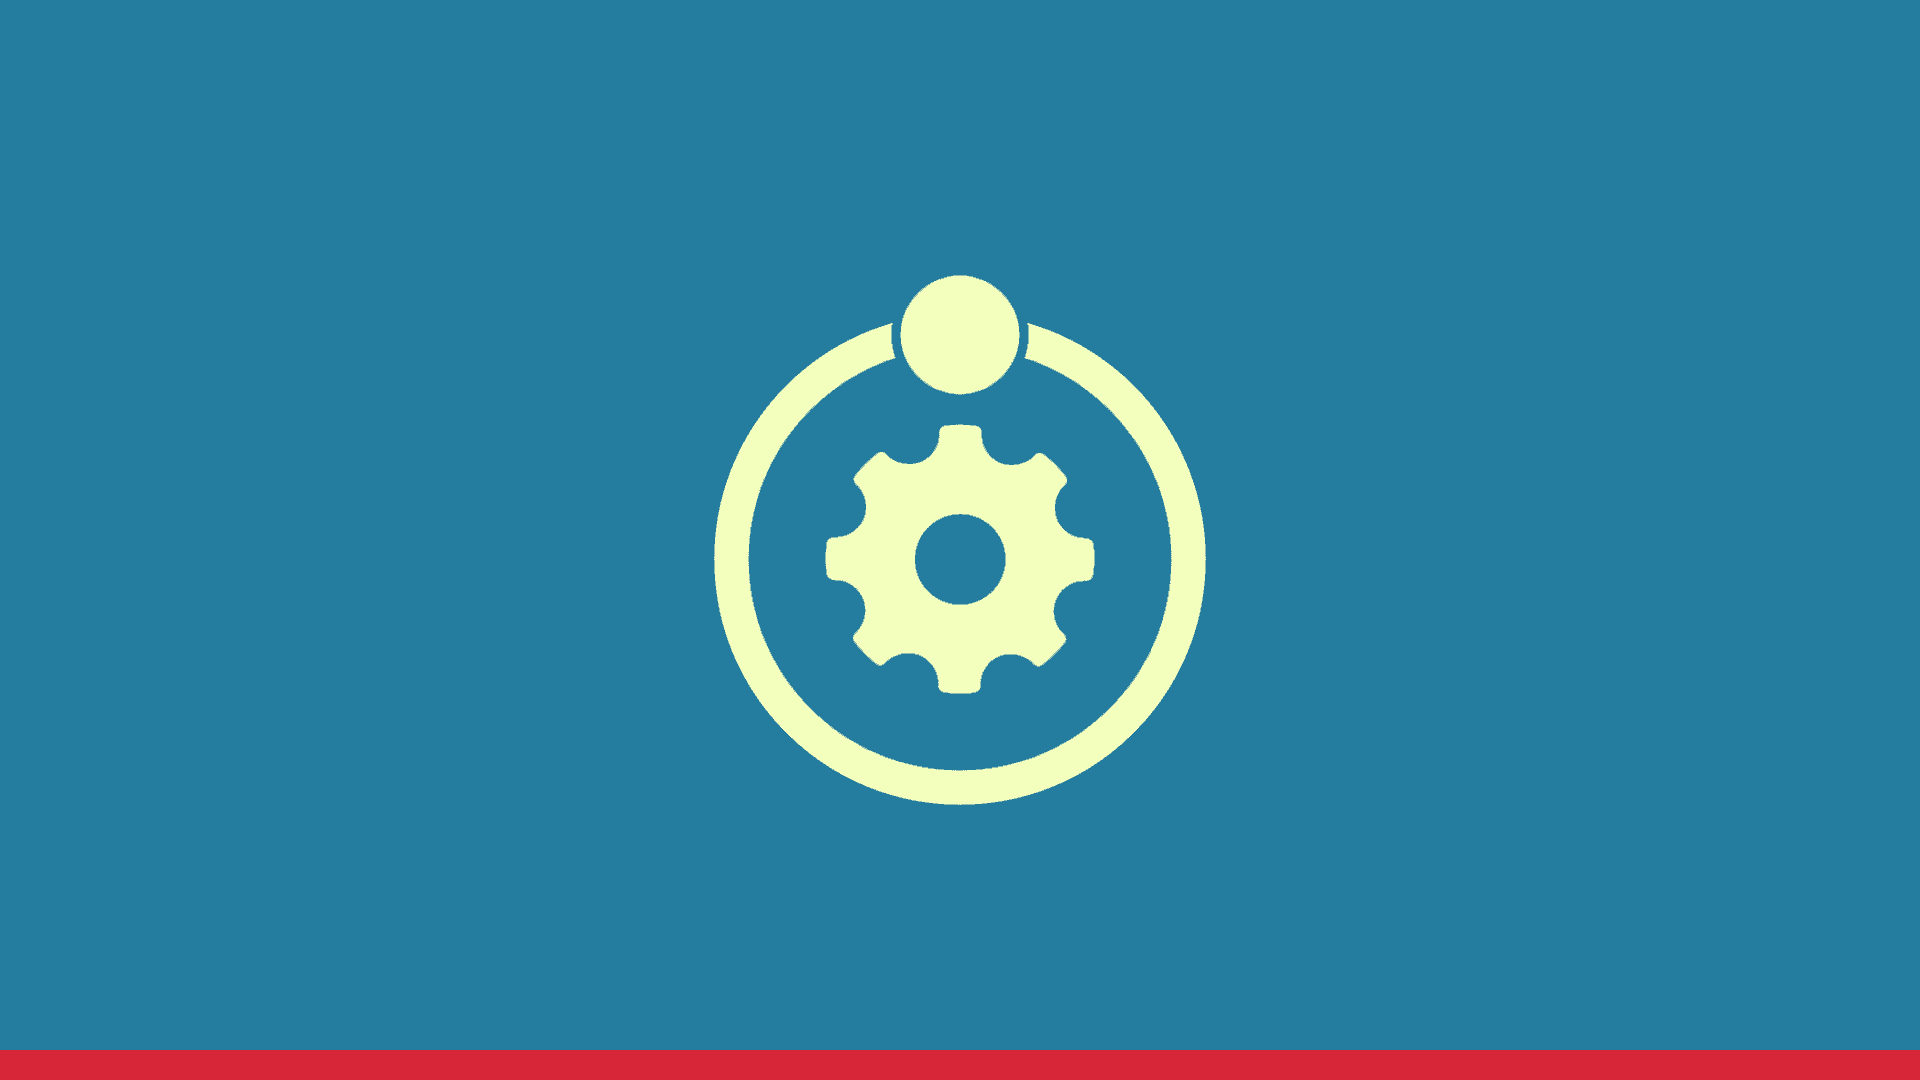
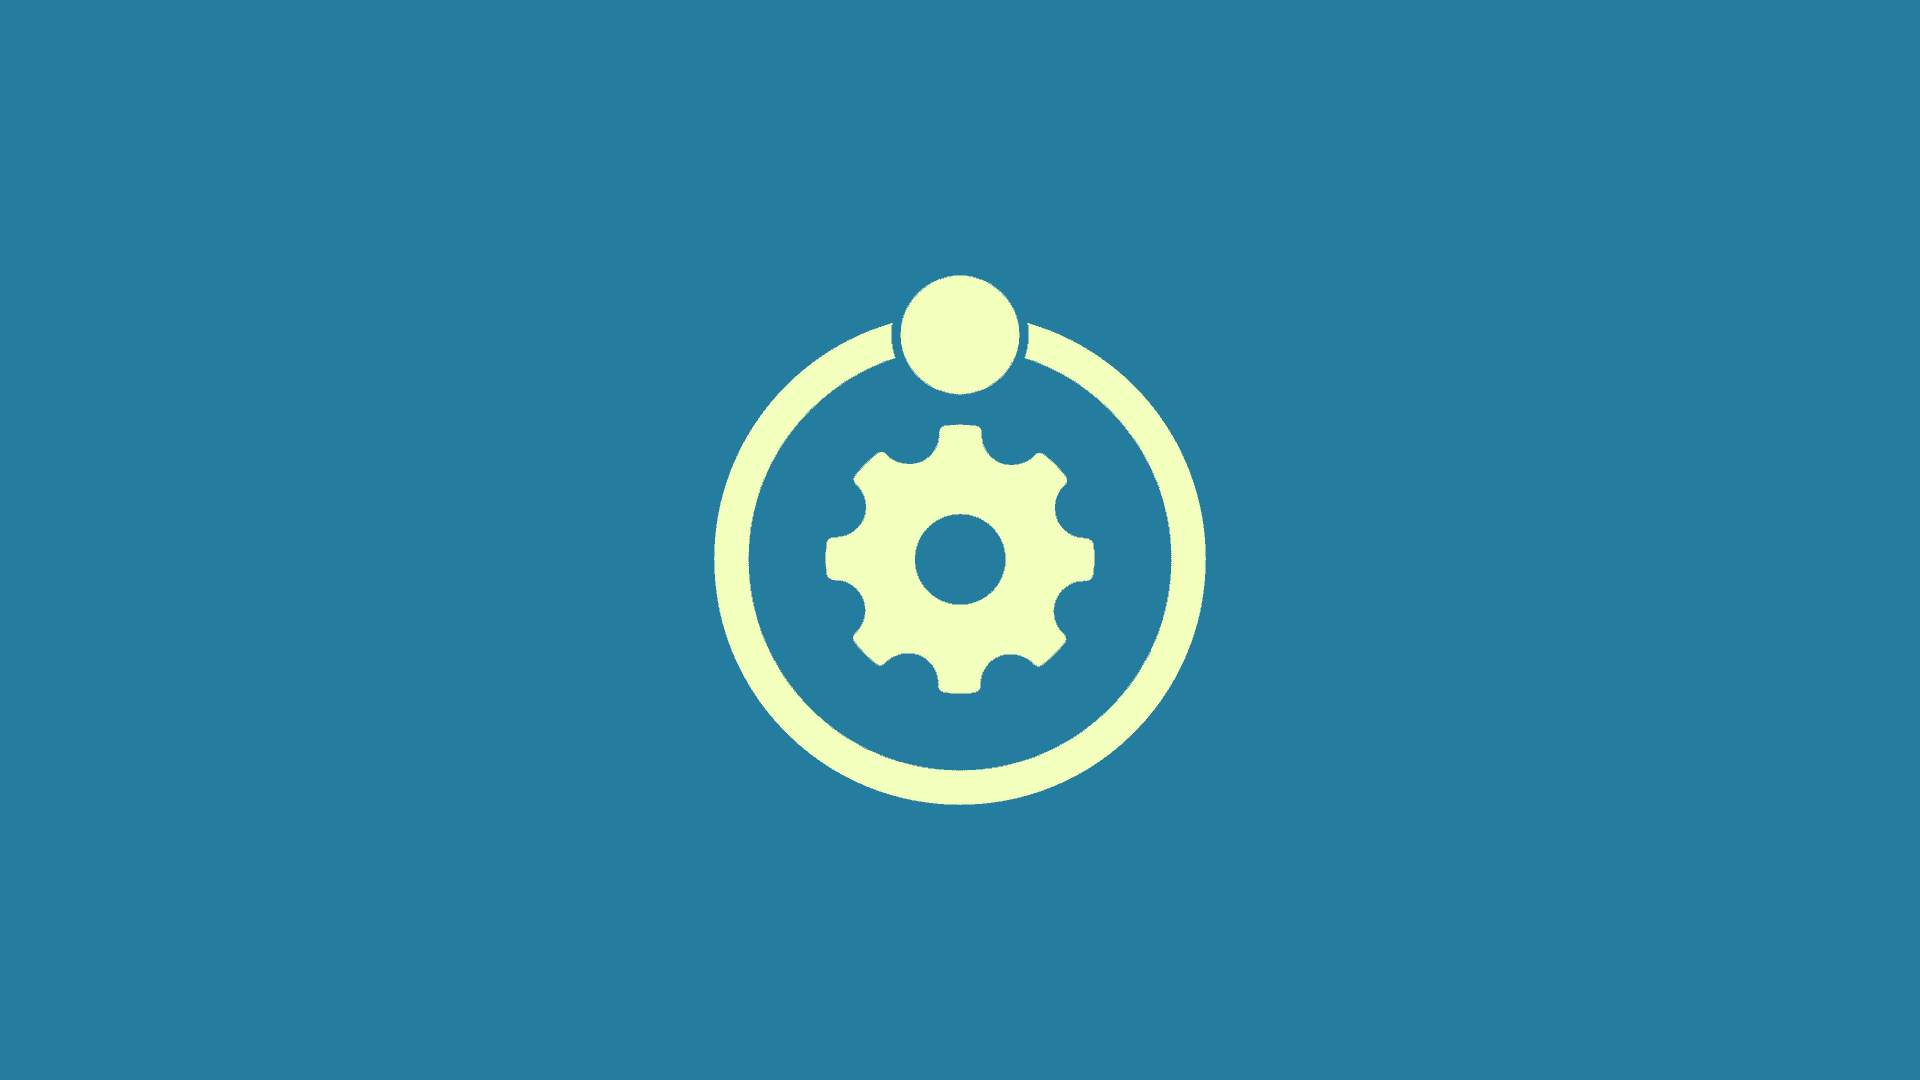
Removes red line of Laputan thumbnail, and replaces hover shadow with 3d translation

Changed region(s): [[0.0, 0.9472, 1.0, 1.0]]

diff --git a/css/styles.css b/css/styles.css
@@ -1088,14 +1088,14 @@ a:active {
     font-weight: 300;
     margin-top: 4px;
     /*Transition*/
-  -webkit-transition: all .05s ease-in-out;
-     -moz-transition: all .05s ease-in-out;
-          transition: all .05s ease-in-out;
+  -webkit-transition: all .15s ease-in-out;
+     -moz-transition: all .15s ease-in-out;
+          transition: all .15s ease-in-out;
   }
 
   .card:hover {
     cursor: pointer;
-    box-shadow: 0 4px 8px 0 rgba(0, 0, 0, 0.2), 0 6px 20px 0 rgba(0, 0, 0, 0.19);
+    transform: scale(.975, .975);
   }
 
   .card-image {
